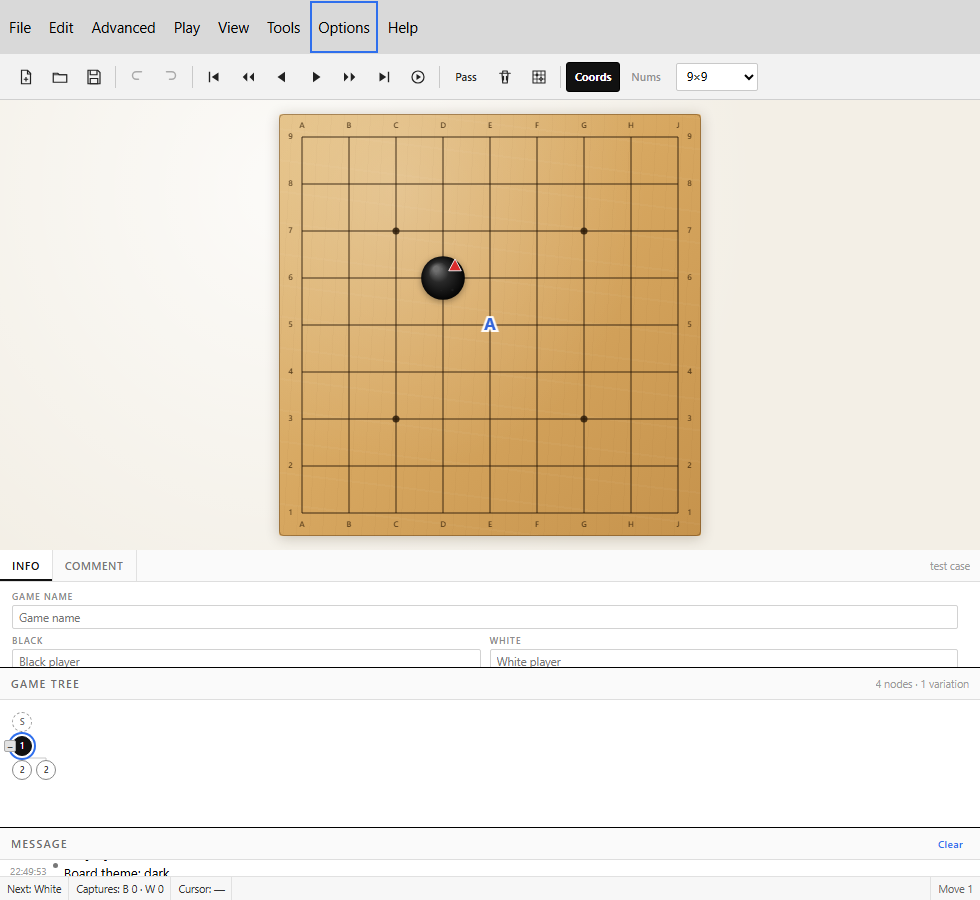
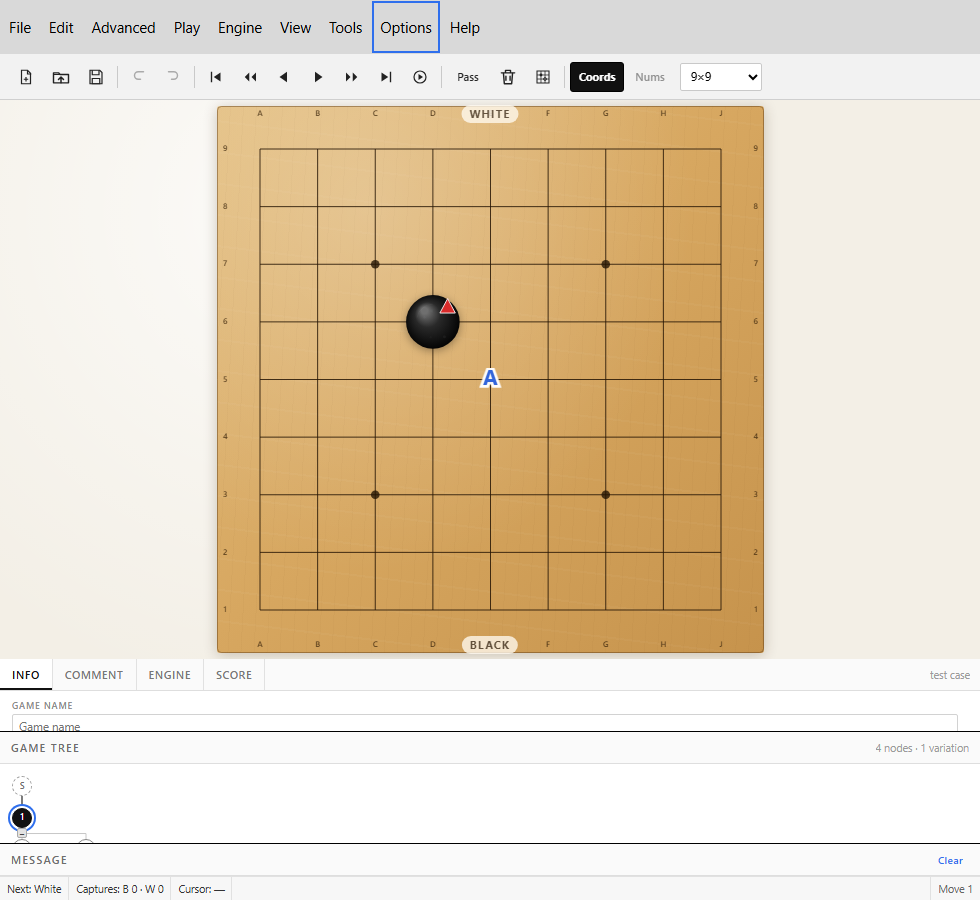
Maximize board and compact panels in portrait layout

diff --git a/src/renderer.js b/src/renderer.js
@@ -1618,7 +1618,7 @@
     // Bowls are live during play (Japanese rules) and while counting; the
     // scoring card only adds dead stones to the prisoner totals.
     const rules = countState.active ? countState.rules : gameRules();
-    const show = settings.showBowls !== false && rules === 'japanese' && bowlRoom();
+    const show = !portraitLayout && settings.showBowls !== false && rules === 'japanese' && bowlRoom();
     const changed = bowlBlack.hidden === show;
     bowlBlack.hidden = !show;
     bowlWhite.hidden = !show;
@@ -1829,6 +1829,10 @@
   }
 
   function toggleGoBowls() {
+    if (portraitLayout) {
+      log('Go bowls are hidden in the portrait layout to keep the board large.', 'warn');
+      return;
+    }
     settings.showBowls = settings.showBowls === false;
     saveSettings();
     refreshCountLayout();
@@ -2292,8 +2296,9 @@
     const { cols, rows } = transformedBoardSize(sourceCols, sourceRows);
     const bowlReserve = (bowlBlack.hidden ? 0 : COUNT_BOWL_SPACE)
       + (bowlWhite.hidden ? 0 : COUNT_BOWL_SPACE);
-    const fitWidth = Math.max(60, rect.width - 28 - bowlReserve);
-    const fitHeight = Math.max(60, rect.height - 28);
+    const boardPadding = portraitLayout ? 12 : 28;
+    const fitWidth = Math.max(60, rect.width - boardPadding - bowlReserve);
+    const fitHeight = Math.max(60, rect.height - boardPadding);
     const zoom = settings.zoom || 1;
     const baseMargin = Math.max(19, Math.round(Math.min(fitWidth, fitHeight) * 0.055)) * zoom;
     // Small boards get very large spacing, and a stone radius that overflows the
@@ -3772,7 +3777,8 @@
     setMenuItemChecked('toggle-siblings', settings.showSiblings);
     setMenuItemChecked('estimate', countState.active && countState.mode === 'estimate');
     setMenuItemChecked('score', countState.active && countState.mode === 'score');
-    setMenuItemChecked('toggle-bowls', settings.showBowls !== false);
+    setMenuItemChecked('toggle-bowls', !portraitLayout && settings.showBowls !== false);
+    setMenuItemDisabled('toggle-bowls', portraitLayout);
     setMenuItemChecked('toggle-auto-layout', settings.autoLayout !== false);
     setMenuItemChecked('toggle-tree', settings.showTree);
     setMenuItemChecked('toggle-remember-size', settings.rememberBoardSize !== false);
@@ -5776,11 +5782,12 @@
   }
 
   function sizePortraitBoard() {
-    const height = clamp(
-      Math.round(workspace.clientHeight * 0.58),
-      220,
-      Math.max(220, workspace.clientHeight - 280),
-    );
+    // On phones the board is the app: leave only a compact tree/info strip.
+    // A square board cannot use more height than the available width; avoid a
+    // large empty strip below it on narrow (phone) screens.
+    const byHeight = Math.round(workspace.clientHeight * 0.72);
+    const byWidth = Math.round(paneBoard.clientWidth || workspace.clientWidth);
+    const height = clamp(Math.min(byHeight, byWidth), 260, Math.max(260, workspace.clientHeight - 190));
     document.documentElement.style.setProperty('--portrait-board-height', `${height}px`);
     paneBoard.style.height = `${height}px`;
   }
@@ -5800,6 +5807,8 @@
     if (shouldPortrait) {
       verticalSplitter.hidden = true;
       paneBoard.style.flex = '0 0 auto';
+      paneInfo.style.flex = '0 0 72px';
+      paneMessage.style.flex = '0 0 32px';
       sizePortraitBoard();
     } else {
       verticalSplitter.hidden = false;
@@ -5807,6 +5816,8 @@
       document.documentElement.style.removeProperty('--portrait-board-height');
       applyLayout(layout, { persist: false });
     }
+    updateBowls();
+    syncMenuState();
     requestAnimationFrame(resizeBoard);
   }
 
@@ -5824,8 +5835,10 @@
     horizontalSplitter.hidden = !settings.showTree;
     paneMessage.hidden = false;
     messageSplitter.hidden = false;
-    paneInfo.style.flex = settings.showTree ? `0 0 ${layout.topPct}%` : '1 1 auto';
-    paneMessage.style.flex = `0 0 ${layout.messagePct}%`;
+    paneInfo.style.flex = portraitLayout
+      ? '0 0 72px'
+      : (settings.showTree ? `0 0 ${layout.topPct}%` : '1 1 auto');
+    paneMessage.style.flex = portraitLayout ? '0 0 32px' : `0 0 ${layout.messagePct}%`;
     paneBoard.classList.toggle('is-zoomed', settings.zoom > 1.001);
     resizeBoard();
   }

diff --git a/src/styles.css b/src/styles.css
@@ -2111,13 +2111,40 @@ kbd {
 .workspace.is-portrait .pane-board {
   flex: 0 0 auto;
   width: 100%;
-  height: var(--portrait-board-height, 52vh);
+  height: var(--portrait-board-height, 72vh);
+  padding: 6px;
 }
 
 .workspace.is-portrait .right-column {
   flex: 1 1 auto;
   width: 100%;
   min-height: 0;
+}
+
+/* Portrait/mobile: give the board the screen and reduce the side panels to
+   compact strips. Info keeps its tab bar plus a short scroll area; Message is
+   the header strip only; Game Tree takes the remaining panel height. */
+.workspace.is-portrait .pane-info {
+  flex: 0 0 72px;
+  min-height: 0;
+}
+
+.workspace.is-portrait .pane-info .tab-panel {
+  overflow: auto;
+}
+
+.workspace.is-portrait .pane-message {
+  flex: 0 0 32px !important;
+  min-height: 32px;
+  overflow: hidden;
+}
+
+.workspace.is-portrait .pane-message .statuslog {
+  display: none;
+}
+
+.workspace.is-portrait .pane-moves {
+  min-height: 64px;
 }
 
 .workspace.is-portrait #splitter-v {

diff --git a/README.md b/README.md
@@ -60,6 +60,10 @@ Released 2026-11-13. The Windows artifacts are `MultiGo-Neo-1.1.7-setup.exe` and
   beside that node. Enter/Save stores the name in the SGF, an empty value removes it, and Escape
   cancels. Named nodes show their name beside the node in the tree, so the name is visible again
   when the file is reopened.
+- **Phone/portrait layout** — below 1120 px the board takes 72% of the workspace height (and uses
+  the full width on phones). Info is a fixed 72 px strip, Message collapses to its 32 px header,
+  and the Game Tree keeps the remaining panel height. Go bowls are disabled in portrait so they
+  never shrink the goban; they return automatically in landscape.
 
 ### Version 1.1.6
 
@@ -737,11 +741,15 @@ renderer reads their custom properties on each switch, so the canvas stays trans
 the CSS surface. `node scripts/verify-themes-ui.mjs <port> preview` regenerates the four
 screenshots against a DevTools-enabled Chromium.
 
-Below **1120 px** the workspace switches to a portrait column: the board sits on top at 58%
-of the available height, the panel column fills the rest, and the vertical splitter hides.
-The layout returns to the remembered landscape proportions when the window grows again.
+Below **1120 px** the workspace switches to a portrait column: the board sits on top at up to
+72% of the workspace height, capped by the available width so a phone uses the full screen
+width instead of leaving an empty strip. Info is a 72 px strip, Message is its 32 px header,
+and the Game Tree takes the rest. Go bowls are hidden in portrait; the layout returns to the
+remembered landscape proportions, with bowls, when the window grows again.
 
 ![Portrait workspace at 980×900](preview/preview-portrait.png)
+
+![Phone portrait workspace at 390×844](preview/preview-portrait-mobile.png)
 
 ![四4 coordinates with Chinese row numerals](preview/preview-cjk.png)
 
